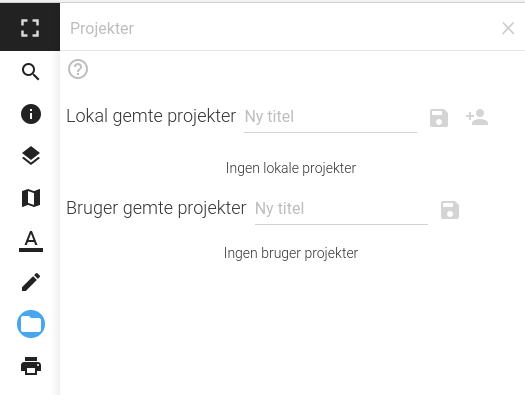
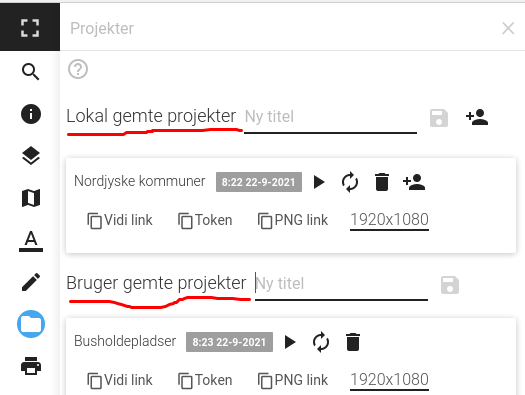
Init

diff --git a/eksempel.html b/eksempel.html
@@ -1,0 +1,16 @@
+<!DOCTYPE html>
+<html lang="da">
+<header>
+    <script src="https://vidi.swarm.gc2.io/js/embed.js"></script>
+</header>
+<body>
+    <h1>Eksempel på indlejring</h1>
+
+    <div 
[1 lines of base64/hex data omitted]
+        data-vidi-width="800px" 
+        data-vidi-height="600px"
+    ></div>
+    
+</body>
+</html>

diff --git a/03-Indlejring-paa-hjemmeside/index.md b/03-Indlejring-paa-hjemmeside/index.md
@@ -1,0 +1,93 @@
+# Indlejring på hjemmeside
+
+Indlejring af Vidi på en hjemmeside tager altid udgangspunkt i et specifikt projekt. For at kunne indlejre Vidi, skal man have styr på tre ting:
+
+1. embed.js scriptet
+2. Projekt token
+3. HTML koden for selve Vidi elementet.
+
+## 1. embed.js script
+
+Vidi kan indlejres på en hjemmeside vha. embed.js scriptet. Dette script skal loades på hjemmesiden, hvor Vidi skal indlejres.
+
+Scriptet skal ikke nødvendigvis hentes fra samme server, hvor Vidi findes. Man kan fx selv hoste scriptet eller placere det inline på sin hjemmeside.
+
+
+    <script src="https://vidi.swarm.gc2.io/js/embed.js"></script>  
+
+
+Scriptet kan både placeres i toppen og bunden af hjemmesiden.
+
+I CMS sammenhæng er det typisk, at script taggen bliver skrevet ind i side-skabelonen, så side-forfatteren ikke skal tænke videre over det.  
+
+## 2. Projekt token
+
+Projektets "token" sindeholder state-id, host, database mv. Tokens er kodet, så de ligner en række tilfældige bogstaver, men det er de ikke.
+
+![Projekt-modul](../assets/token1.png)
+
+Kodet:
+
[1 lines of base64/hex data omitted]
+
+Ukodet:
+
+    {"id":"state_snapshot_e00d8e20-1b6e-11ec-83a0-3972aac41564","host":"http://127.0.0.1:3000","title":"Nordjyske kommuner","schema":"workshop","userId":"mydb","database":"mydb","snapshot":false,"anonymous":false,"browserId":false,"created_at":"2021-09-22T06:32:36.098Z","updated_at":"2021-09-22T06:32:36.098Z","config":"/api/v2/configuration/mydb/configuration_workshop_614ada3483ea2973103484.json"}
+
+## 3. HTML koden for Vidi elementet
+
+Denne kode-stump indsættes der, hvor kortet ønskes. Det er et såkaldt "div tag", som er tomt, men embed.js scriptet finder den og indsætter Vidi i det:
+
+    <div data-vidi-token="eyJpZCI6InN......"></div>
+
+Vha. en række "data-attributter" kan det indlejrede kort gives nogle forskellige egenskaber. Følgende er de data-attributter, som kan anvendes. Hvis de ikke anvendes vil en standard værdi blive brugt.
+
+* **data-vidi-width**
+
+    - Bredde på kort. Bruger css syntax. Fx "500px" eller "100%". Standard 100%
+
+* **data-vidi-height**
+
+    - Højde på kort. Bruger css syntax. Fx "500px" eller "100%". standard 100%
+
+* **data-vidi-tmpl**
+
+    - Hvilken template kortet skal bruge. Standard embed.tmpl, som er en template beregnet til indlejring.
+
+* **data-vidi-search**
+
+    - Kan sættes til “none” hvis søgeboksen skal skjules. Standard ikke sat.
+
+* **data-vidi-history**
+
+    - Kan sættes til “none” hvis forrige/næste udsnit kanpperne skal skjules. Standard ikke sat.
+
+* **data-vidi-use-config**
+
+    - Kan sættes til “true” og derved bruges config’en fra token, hvis den indeholder en config.
+
+* **data-vidi-use-schema**
+
+    - Kan sættes til “true” og derved bruges schemaet fra token, hvis den indeholder et schema.
+
+* **data-vidi-host**
+
+    - Kan sættes til en host (fx “https://example.com”) som bruges i stedet for host angivet i token.
+
+* **data-vidi-frame-name**
+
+    - Navn på det indsatte kort. Dette er nødvendig hvis Embed API skal anvendes.
+
+### Eksemple på brugen af data-attributter
+
+Data-attributter skrives sådledes. Rækkefølgen er underordnet:
+
+    <div data-vidi-token="eyJpZCI6InN......" data-vidi-width="800px" data-vidi-height="600px"></div>
+
+Kan også skrives på flere linjer, så det bliver lettere at læse:
+
+    <div 
+         data-vidi-token="eyJpZCI6InN......" 
+         data-vidi-width="800px"
+         data-vidi-height="600px"
+    ></div>

diff --git a/02-Projekter/index.md b/02-Projekter/index.md
@@ -8,7 +8,18 @@ Projekter kan gemmes på to måder: Lokalt eller under en brugerprofil.
 
 ## Lokal gemte projekter
 
-
-
+Projektet bliver gemt på serveren, men referencen til det er knyttet til browser-sessionen. Dvs. at projektet kan ses på listen og ændres så længe der anvendes den samme browser og browser-cachen ikke er ryddet. Mistes referencen til projektet vil det stadig eksistere, men kan ikke ændres eller slettes.
 
 ## Bruger gemte projekter
+
+Er man logget ind i Vidi kan projektet gemmes under ens bruger-profil. På denne måde kan man altid se projektet på listen og det kan ændres/slettes fra en hvilken som helst browser.
+
+**Brug altid Bruger gemte projekter!**
+
+## Øvelse
+
+- Opret et lokalt projekt.
+- Log ind og opret et bruger projekt.
+- Prøv at flytte det lokale projekt til et bruger projekt.
+
+[Video af Vidi projekter](https://vimeo.com/611421748)

diff --git a/00-Intro/index.md b/00-Intro/index.md
@@ -8,3 +8,7 @@ Denne workshop vil gå i dybden med hvordan kortets tilstand gemmes i et projekt
 
 For at kunne gennemføre denne workshop kræves adgang til GC2/Vidi med minimum et lag. Se evt. den grundlæggende [GC2/Vidi workshop](https://mapcentia.github.io/GC2-Vidi-workshop/)
 
+Du kan også anvende denne [Vidi installation](https://vidi.swarm.gc2.io/app/workshop/?config=/api/v2/configuration/workshop/configuration_workshop_614ae80c2393c449148255.json) med et par test-lag.
+
+I modul 03 kræves adgang til en hjemmeside, hvor Vidi kan indlejres. Hvis du ikke lige har adgang til en hjemmeside, kan du hente [denne hjemmeside](../eksempel.html), som er forberedt til indlejring. 
+
